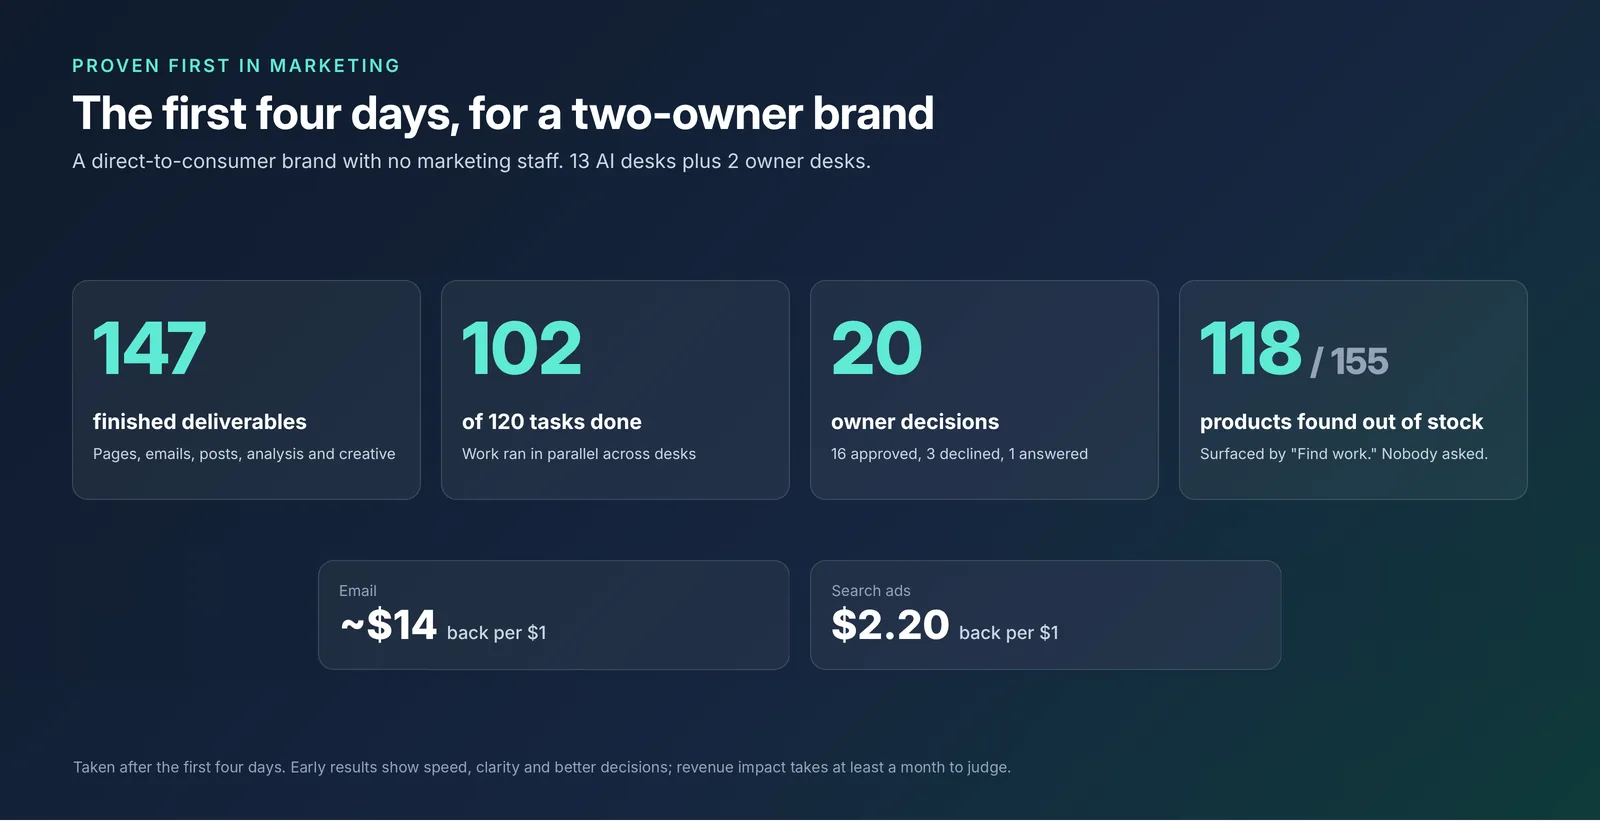
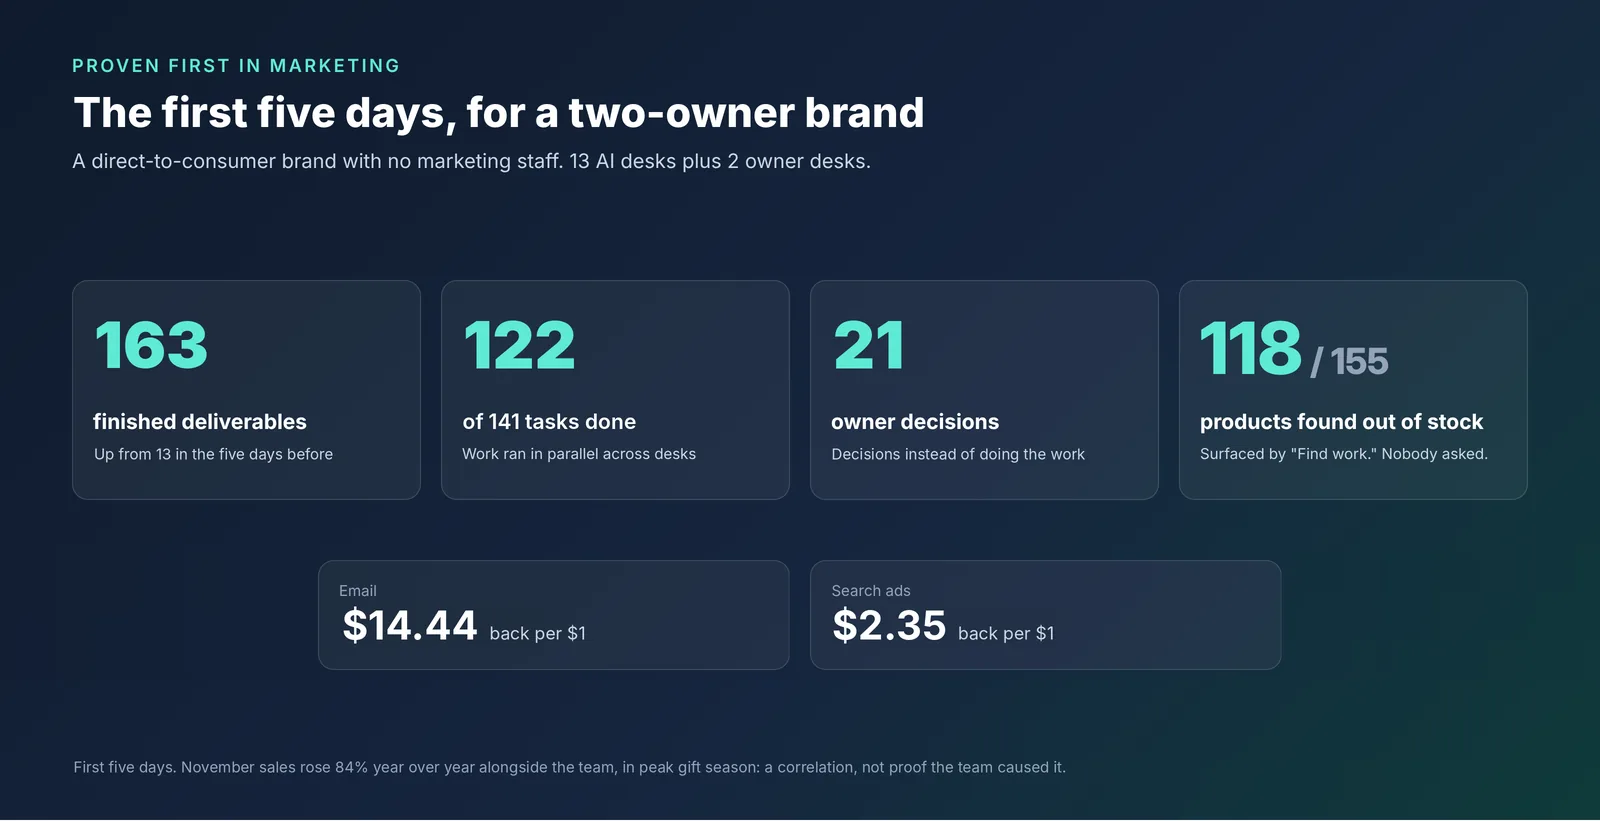
Update AI Workforce case study with sourced five-day proof points
Uses Tyler's website-safe lines: 163 deliverables vs 13, 122 of 141
tasks, 21 owner decisions, one $100-a-month subscription, November
sales up 84% year over year (stated as a correlation in peak gift
season), $14.44 email and $2.35 search ads per $1, known-source revenue
72% to 80%, and a new $0 to $3,081 own-site channel. Updates the results
image, home band, and llms.txt to match.

Claude-Session: https://claude.ai/code/session_01SMmsKiJv2QkX4SPLzNsWuH

diff --git a/ai-workforce.html b/ai-workforce.html
@@ -329,32 +329,38 @@
     <section id="case-study">
       <div class="wrap">
         <p class="eyebrow">Case study: proven first in marketing</p>
-        <h2>A DTC beverage brand's first four days with an AI workforce</h2>
+        <h2>A DTC beverage brand's first five days with an AI workforce</h2>
         <p class="section-lead">A small direct-to-consumer beverage company with three product lines, two websites, an email list of about 5,000, paid ads, and daily social posts. Two co-owners ran it with no marketing staff. One owner handled all the marketing, spend was judged by feel, and about a third of orders couldn't be traced to any channel.</p>
-        <p>We built a marketing office of 13 AI desks plus two owner desks, covering email, social, ads, website and SEO, creative, copywriting, a lead for each product line, retention, attribution, and a general manager. We connected 16 of the business's systems, and the co-owner sends ideas and approves work from a private team chat channel.</p>
+        <p>We built a marketing office of 13 AI desks plus two owner desks, covering email, social, ads, website and SEO, creative, copywriting, a lead for each product line, retention, attribution, and a general manager. We connected 16 of the business's systems, and the co-owner sends ideas and approves work from a private team chat channel. The whole team runs on one $100-a-month subscription.</p>
 
         <figure class="aiw-shot">
-          <img src="/images/ai-workforce/09-proof-1600.webp" srcset="/images/ai-workforce/09-proof-1600.webp 1600w, /images/ai-workforce/09-proof-3200.webp 3200w" sizes="(max-width: 1120px) 100vw, 1080px" width="1600" height="821" alt="First four days for a DTC beverage brand: 147 finished deliverables, 102 of 120 tasks done, 20 owner decisions, 118 of 155 products found out of stock, and return per $1 of about $14 for email and $2.20 for search ads" loading="lazy" decoding="async">
-          <figcaption>Real results from the first four days. Revenue impact needs at least a month to judge.</figcaption>
+          <img src="/images/ai-workforce/09-proof-1600.webp" srcset="/images/ai-workforce/09-proof-1600.webp 1600w, /images/ai-workforce/09-proof-3200.webp 3200w" sizes="(max-width: 1120px) 100vw, 1080px" width="1600" height="821" alt="First five days for a DTC beverage brand: 163 finished deliverables, up from 13 in the five days before, 122 of 141 tasks done, 21 owner decisions, 118 of 155 products found out of stock, and $14.44 back per $1 on email and $2.35 on search ads" loading="lazy" decoding="async">
+          <figcaption>Real results from the team's first five days.</figcaption>
         </figure>
 
         <div class="aiw-stats">
-          <div class="aiw-stat"><div class="big-num">147</div><p>finished pieces of work</p></div>
-          <div class="aiw-stat"><div class="big-num">102 <small>of 120</small></div><p>desk tasks done</p></div>
-          <div class="aiw-stat"><div class="big-num">20</div><p>owner decisions instead of owner work (16 yes, 3 no, 1 answer)</p></div>
-          <div class="aiw-stat"><div class="big-num">51</div><p>planned marketing items a week, up from 34</p></div>
+          <div class="aiw-stat"><div class="big-num">163</div><p>finished deliverables in five days, up from 13 in the five days before</p></div>
+          <div class="aiw-stat"><div class="big-num">122 <small>of 141</small></div><p>desk tasks done</p></div>
+          <div class="aiw-stat"><div class="big-num">21</div><p>owner decisions instead of owner work</p></div>
+          <div class="aiw-stat"><div class="big-num">$100</div><p>a month runs the whole team</p></div>
+        </div>
+
+        <div class="aiw-stats aiw-stats-3">
+          <div class="aiw-stat"><div class="big-num">+84%</div><p>November sales compared with last November, alongside the team's launch (peak gift season)</p></div>
+          <div class="aiw-stat"><div class="big-num">72% <small>to</small> 80%</div><p>of revenue now traced to a known source</p></div>
+          <div class="aiw-stat"><div class="big-num">$0 <small>to</small> $3,081</div><p>from links on the brand's own site and blog in 13 days, a brand-new channel</p></div>
         </div>
 
         <div class="grid grid-2 aiw-case-grid">
           <div>
-            <h3>Where the money goes now</h3>
+            <h3>Every dollar shows its return</h3>
             <p>Every channel now shows its cost next to the sales it can be credited with, year to date.</p>
             <div class="table-wrap">
               <table class="aiw-table">
                 <thead><tr><th>Channel</th><th>Back per $1</th><th>What changed</th></tr></thead>
                 <tbody>
-                  <tr><td>Email</td><td>about $14</td><td>Confirmed as the top channel. The desk also caught falling open rates, so new emails are checked against what's already scheduled.</td></tr>
-                  <tr><td>Search ads</td><td>$2.20</td><td>Search was mostly paying for clicks on the brand's own name, so that budget was cut. Shopping ads sold the gift product at a strong return, so spend was focused there.</td></tr>
+                  <tr><td>Email</td><td>$14.44</td><td>Confirmed as the top channel. The desk also caught falling open rates, so new emails are checked against what's already scheduled.</td></tr>
+                  <tr><td>Search ads</td><td>$2.35</td><td>Search was mostly paying for clicks on the brand's own name, so that budget was cut. Shopping ads sold the gift product at a strong return, so spend was focused there.</td></tr>
                 </tbody>
               </table>
             </div>
@@ -364,16 +370,15 @@
             <ul class="ticks">
               <li><b>Most of the online shop was out of stock:</b> 118 of 155 products. A "Find work" run surfaced it.</li>
               <li><b>The weekly shop email had no tracking tags,</b> so its sales were showing up as "unknown."</li>
-              <li><b>The subscription wasn't losing members.</b> Returning members were up. The real problem was new buyers, down 30%, which moved the growth plan toward finding new members.</li>
               <li><b>Holiday timing:</b> almost 90% of last year's subscription gift orders came in December, so gift ads and emails now run through December 24.</li>
               <li><b>The "unknown source" pile was split into seven named causes,</b> each with a fix.</li>
             </ul>
           </div>
         </div>
-        <p>In the same four days, the desks produced a new homepage design, an About page, a reviews page, three gift blog posts, a welcome email series, a win-back email, a holiday gift email, and a daily partner post across three social networks, all live or waiting for approval. The team changed too: three new desks were hired and one was retired in the first week.</p>
+        <p>In its first days, the team produced a new homepage design, an About page, a reviews page, three gift blog posts, a welcome email series, a win-back email, a holiday gift email, and a daily partner post across three social networks, all live or waiting for approval. The team changed too: three new desks were hired and one was retired in the first week.</p>
 
         <div class="callout">
-          <p><b>The honest caveats.</b> The workforce was four days old when these numbers were taken. We claim speed, clarity, and better decisions. Revenue impact needs at least a month to judge. Year-to-date channel credit from before the store's order tracking started is an estimate built from analytics.</p>
+          <p><b>The honest caveats.</b> These numbers come from the team's first five days. The sales lift happened alongside the team, in peak gift season, so we treat it as a correlation, not proof the team caused it. Year-to-date channel credit from before the store's order tracking started is an estimate built from analytics.</p>
         </div>
       </div>
     </section>

diff --git a/index.html b/index.html
@@ -210,7 +210,7 @@
           <p class="section-lead">Each AI employee has a desk, a job description, the tools it needs, and a scorecard showing what it delivers and what it costs. You hand out work, approve with one tap, and nothing goes out without your yes.</p>
           <ul class="ticks">
             <li><b>Any department:</b> sales, customer service, operations, finance, HR, and marketing.</li>
-            <li><b>Proven first in marketing:</b> 147 finished pieces of work in its first four days for a DTC beverage brand, though it is too early to judge revenue.</li>
+            <li><b>Proven first in marketing:</b> 163 finished deliverables in its first five days for a DTC beverage brand, up from 13 in the five days before, on one $100-a-month subscription.</li>
             <li><b>You stay in control:</b> customer-facing work and spending always wait for your approval.</li>
           </ul>
           <div class="hero-actions">

diff --git a/styles.css b/styles.css
@@ -606,6 +606,7 @@ a.card:hover { border-color: var(--brand); box-shadow: var(--shadow); transform:
 .aiw-pkg-mid { border-top-color: var(--accent); }
 .aiw-pkg-size { color: var(--gold-text) !important; font-weight: 700; margin-bottom: 10px !important; }
 .aiw-stats { display: grid; grid-template-columns: repeat(4, 1fr); gap: 16px; margin: 32px 0; }
+.aiw-stats-3 { grid-template-columns: repeat(3, 1fr); margin-top: -16px; }
 .aiw-stat { background: var(--bg-alt); border-radius: var(--radius); padding: 22px; border-top: 4px solid var(--accent); }
 .aiw-stat .big-num small { font-size: 1rem; font-weight: 700; color: var(--ink-soft); }
 .aiw-stat p { color: var(--ink-soft); margin: 0; font-size: 0.95rem; }
